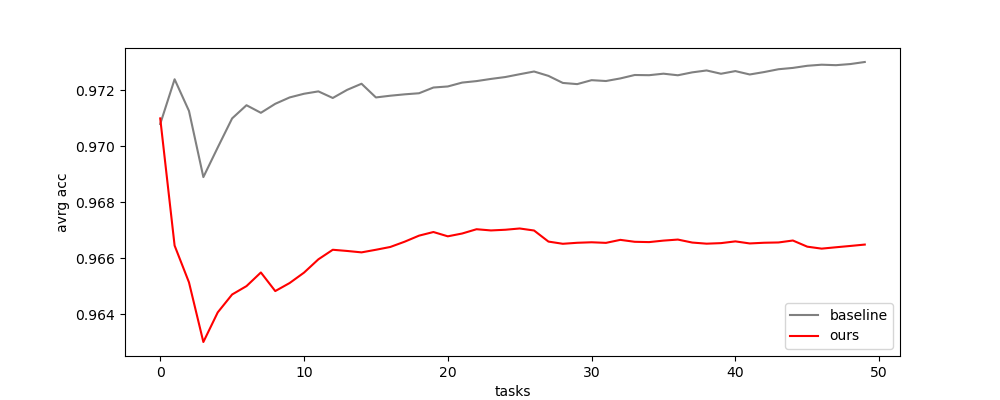
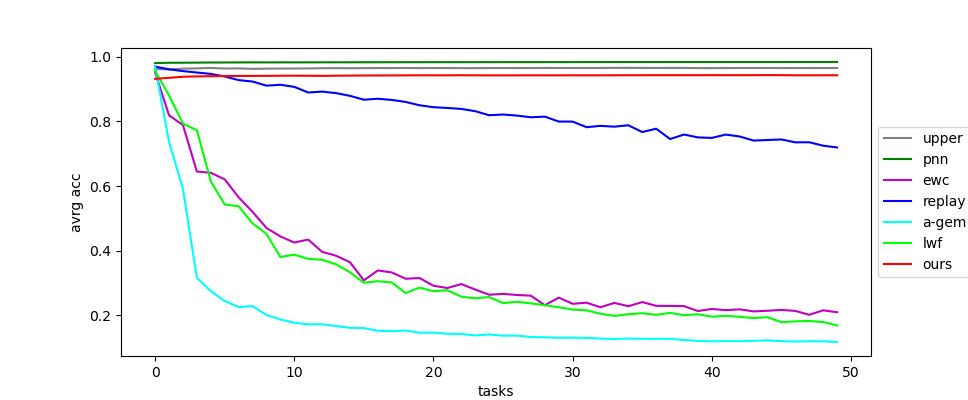
small updates

diff --git a/mlflow_metrics.py b/mlflow_metrics.py
@@ -3,10 +3,10 @@ import mlflow
 
 
 def main():
-    parent_run_id = '114226043b804273a6780f9d014f1ee7'
+    parent_run_id = '673021f84ea84304a281bbb538f8974c'
     client = mlflow.tracking.MlflowClient('///home/jkozal/Documents/PWr/stochastic_depth/mlruns/')
 
-    run_infos = client.list_run_infos('2')
+    run_infos = client.list_run_infos('1')
     best_acc = 0.0
     best_id = None
 
@@ -21,7 +21,7 @@ def main():
         if parent_run != parent_run_id:
             continue
 
-        run_metrics = run_data.metrics
+        # run_metrics = run_data.metrics
         # test_accs = [acc for name, acc in run_metrics.items() if name.startswith('test_accuracy_task_')]
         # if len(test_accs) == 0:
         #     continue
@@ -41,7 +41,7 @@ def main():
 
 
 def average_acc(run_id, max_num_tasks=3):
-    run_path = pathlib.Path(f'mlruns/2/{run_id}/metrics/')
+    run_path = pathlib.Path(f'mlruns/1/{run_id}/metrics/')
     num_tasks = get_num_tasks(run_path, max_num_tasks)
     accs = []
     for i in reversed(list(range(num_tasks))):

diff --git a/utils/pmnist_plot.py b/utils/pmnist_plot.py
@@ -16,14 +16,14 @@ def main():
 
     plt.figure(figsize=(10, 4))
 
-    for method, color in zip(('baseline', 'pnn', 'ewc', 'ours'), ('gray', 'g', 'm', 'r')):
+    for method, color in zip(('upper', 'pnn', 'ewc', 'replay', 'a-gem', 'lwf', 'ours'), ('gray', 'g', 'm', 'b', 'cyan', 'lime', 'r')):
         acc = get_average_accuracy(experiment_id, runs[method])
         plt.plot(acc, color, label=method)
 
-    plt.legend()
+    plt.legend(loc='center left', bbox_to_anchor=(1, 0.5))
     plt.xlabel('tasks')
     plt.ylabel('avrg acc')
-    plt.ylim((0.9, 1.0))
+    # plt.ylim((0.9, 1.0))
     plt.show()
 
 
